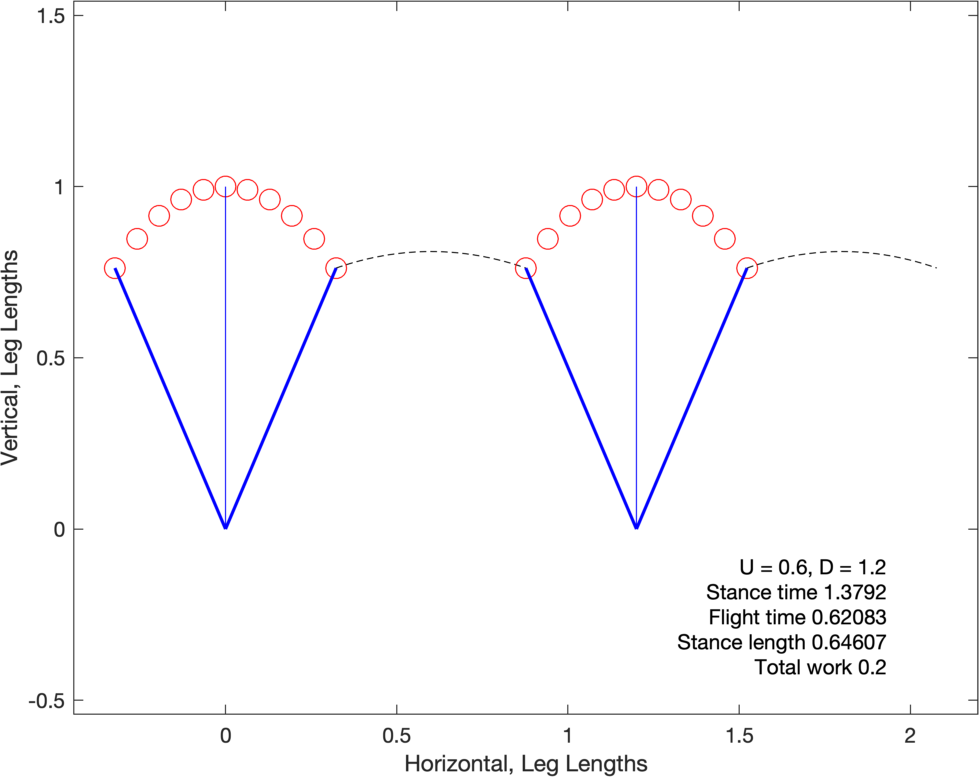
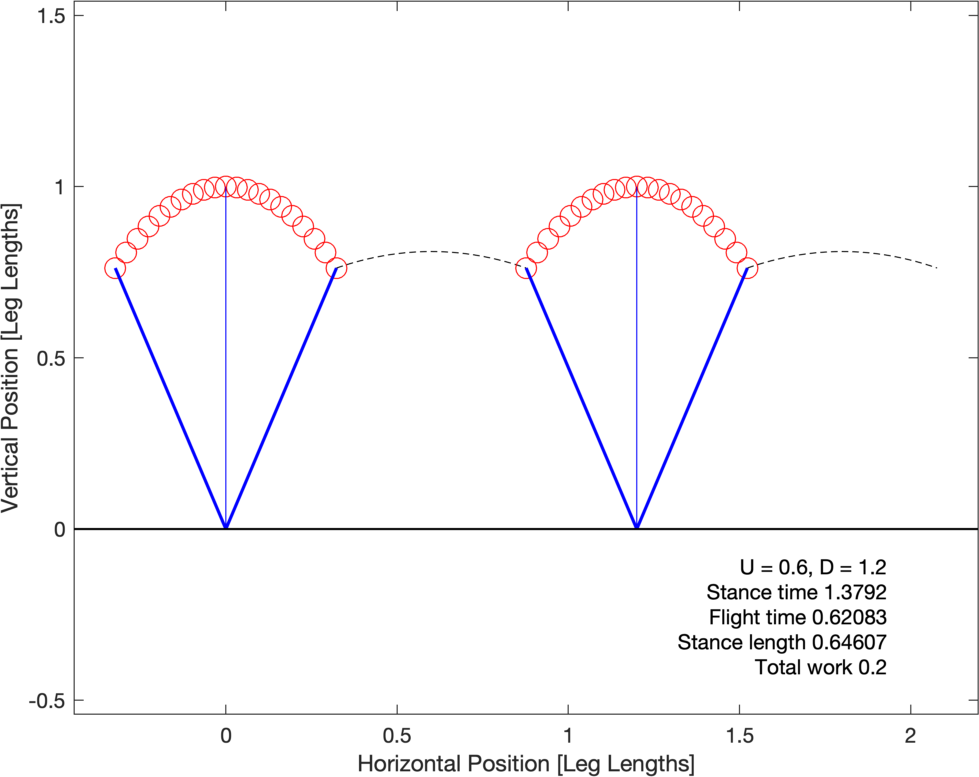
Improved documentation
+ More examples in readme
+ Updated plots
+ plot function includes ground, more explanatory comments

diff --git a/plotImpulsiveBipedHalfStance.m b/plotImpulsiveBipedHalfStance.m
@@ -88,36 +88,37 @@ for ii = 0:1
             end
         end
     end
-    x0 = X(1,1);
+    % initial and final positions
+    x0 = X(1,1); 
     y0 = X(1,2);
     xf = X(end,1);
     yf = X(end,2);
-    l0 = sqrt((x0-ii*D)^2 + y0^2);
-    lf = sqrt((xf-ii*D)^2 + yf^2);
+    l0 = sqrt((x0-ii*D)^2 + y0^2); % initial leg length
+    lf = sqrt((xf-ii*D)^2 + yf^2); % final leg length
+    % initial and final velocities
     v0 = X(1,4);
     [uf, vf] = deal(X(end,3),X(end,4));
     
-    
-
-    
-    
-    T_fl = -(v0 - Pn*y0/l0) + (vf + Pp*yf/lf);
+    T_fl = -(v0 - Pn*y0/l0) + (vf + Pp*yf/lf); % flight time
     t_fl = linspace(0,T_fl);
     x_fl = xf + (uf+Pp*(xf-ii*D)/lf)*t_fl;
     y_fl = yf + (vf+Pp*yf/lf)*t_fl - 1/2*t_fl.^2;
     plot(x_fl,y_fl,'k--')
 end
+% plot ground
+
 
 Work = 2*(o.result.objective-o.result.solution.phase.integral(2));
 
 yl = ylim;
-
 ylim([0 yl(2)])
-axis equal
-xlim([x0-D*1.1, x_fl(end)+D/10])
+axis equal % set equal axis ratio in x and y
+xl = [x0-D*1.1, x_fl(end)+D/10]; % x plotting limits
+xlim(xl)
+plot(xl,[0 0],'k-','linewidth',1)
 
-xlabel('Horizontal, Leg Lengths')
-ylabel('Vertical, Leg Lengths')
+xlabel('Horizontal Position [Leg Lengths]')
+ylabel('Vertical Position [Leg Lengths]')
 
 switch TextLocation
     case 'INSIDE'

diff --git a/README.md b/README.md
@@ -26,7 +26,7 @@ The script `ImpulsiveBipedHalfStanceMAIN` shows basic functionality. More specif
 
 #### Default guess
 
-To find an optimal solution at nondimensional speeds of $U = 0.5$ and $D = 0.4$ from a simple guess, call 
+To find an optimal solution at nondimensional speeds of U = 0.5 and D = 0.4 from a simple guess, call 
 
     out = ImpulsiveBipedHalfStanceIterate(0.5,0.4,'default');
 
@@ -34,7 +34,11 @@ Calling
             
             plotImpulsiveBipedHalfStance(out,'TextLocation','Outside');
     
-results in this figure ![A pendular walk](Plots/D-0p4_U-0p5.png) showing a pendular walk, as expected.
+results in this figure 
+
+<img src="Plots/D-0p4_U-0p5.png" alt="A pendular walk" width=400/>
+
+showing a pendular walk, as expected.
 
 #### Random Guess
 
@@ -46,7 +50,9 @@ Plot the solution with higher time resolution in the plot. Set the number of plo
 
     plotImpulsiveBipedHalfStance(out,21);
     
-As the problem is non-convex, a number of alternative solutions will emerge. Some examples at $U = 0.6$, $D = 1.2$:
+As the problem is non-convex, a number of alternative solutions will emerge. Some examples at U = 0.6, D = 1.2:
 
-![A pendular run](Plots/D-1p2_U-0p6_sol1.png)
-![A skip-like gait](Plots/D-1p2_U-0p6_sol2.png)
+<img src="Plots/D-1p2_U-0p6_sol1.png" alt="A pendular run" width=300/>
+<img src="Plots/D-1p2_U-0p6_sol2.png" alt="A skip-like gait" width=300/>
+
+
